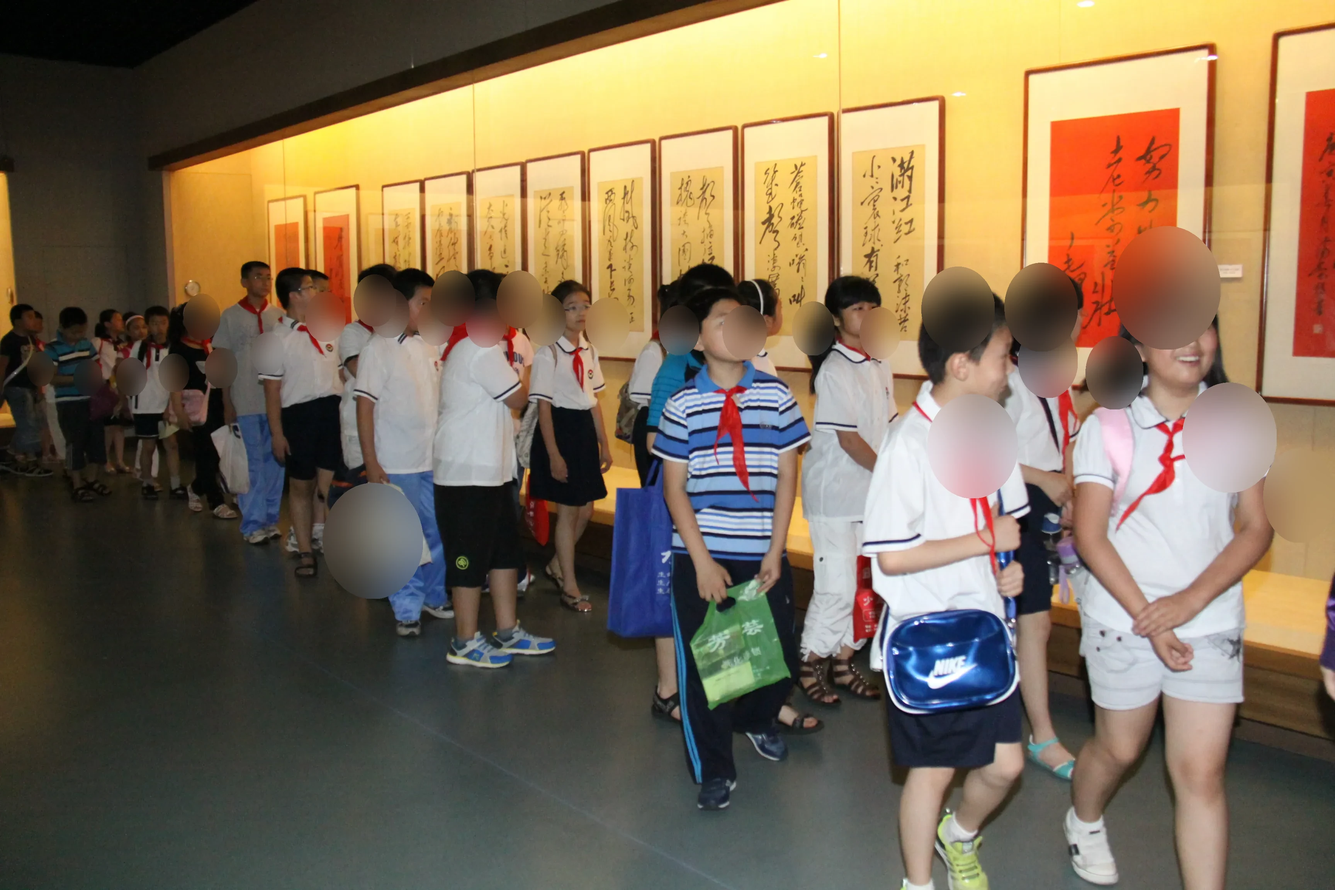
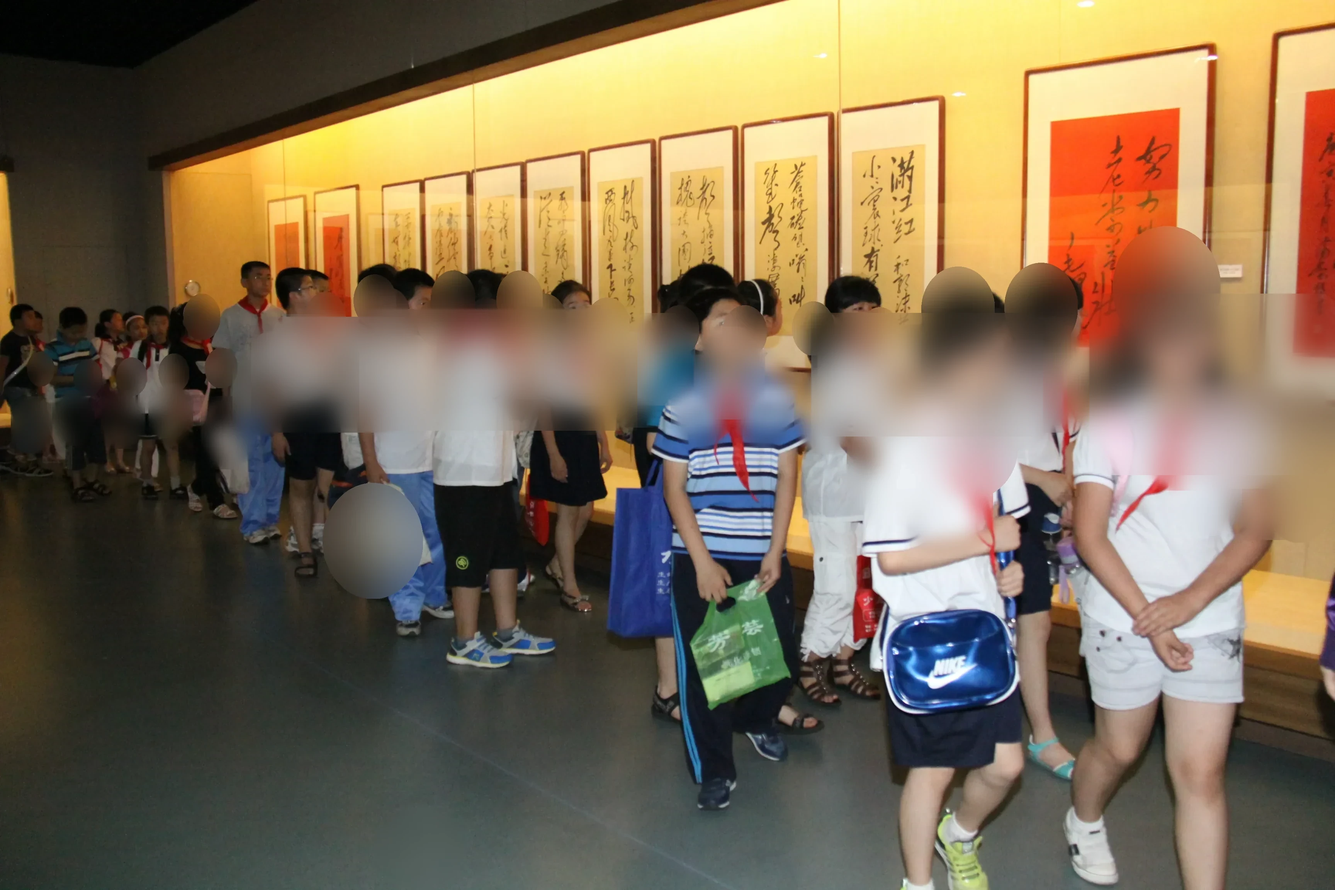
Update latest site frontend assets

Changed region(s): [[0.0938, 0.3125, 1.0, 0.5625], [0.6875, 0.5625, 0.75, 0.625], [0.9062, 0.5625, 0.9375, 0.5938]]

diff --git a/site/js/renderers.js b/site/js/renderers.js
@@ -187,6 +187,8 @@
   function contactMarkup(route) {
     const profile = store.siteData.profile;
     const copy = currentUI().home;
+    const phoneLabel = state.lang === "en" ? "Phone" : "\u8054\u7cfb\u7535\u8bdd";
+    const phone = profile.contact.phone ? String(profile.contact.phone).trim() : "";
     const compact = route?.page && route.page !== "home";
     return `
       <section class="${compact ? "section contact-section is-compact" : "section contact-section"}">
@@ -197,9 +199,8 @@
           </div>
           <div class="contact-meta">
             <div class="contact-row"><div class="meta">${escapeHtml(copy.city)}</div><div class="body">${escapeHtml(state.lang === "en" ? profile.contact.city_en : profile.contact.city_zh)}</div></div>
-            <div class="contact-row"><div class="meta">${escapeHtml(copy.email)}</div><div class="body">${escapeHtml(profile.contact.email)}</div></div>
+            ${phone ? `<div class="contact-row"><div class="meta">${escapeHtml(phoneLabel)}</div><div class="body">${escapeHtml(phone)}</div></div>` : ""}
             <div class="contact-row"><div class="meta">${escapeHtml(copy.response)}</div><div class="body">${escapeHtml(state.lang === "en" ? profile.contact.reply_en : profile.contact.reply_zh)}</div></div>
-            <div class="contact-row"><div class="meta">${escapeHtml(copy.instagram)}</div><div class="body">${escapeHtml(profile.contact.instagram)}</div></div>
           </div>
         </div>
       </section>
@@ -724,12 +725,6 @@
           <canvas class="hero-ink-canvas" data-ink-canvas aria-hidden="true"></canvas>
         </div>
       </section>
-      <section class="hero-summary">
-        <div class="section-kicker body">${escapeHtml(copy.kicker)}</div>
-        <div class="h1">${escapeHtml(heroTitle)}</div>
-        <div class="body">${escapeHtml(heroSubtitle)}</div>
-      </section>
-
       <section class="section">
         <div class="section-head">
           <div>
@@ -799,7 +794,7 @@
     return `
       <div class="media-lightbox" role="dialog" aria-modal="true" aria-label="${escapeHtml(label)}">
         <button class="media-lightbox-backdrop" type="button" data-lightbox-close aria-label="${escapeHtml(closeLabel)}"></button>
-        <div class="media-lightbox-inner">
+        <div class="media-lightbox-inner ${hasMultiple ? "has-nav" : ""}">
           <button class="media-lightbox-close" type="button" data-lightbox-close aria-label="${escapeHtml(closeLabel)}">×</button>
           ${hasMultiple ? `
             <button class="media-lightbox-nav is-prev" type="button" data-lightbox-nav="prev" data-media-index="${index}" data-media-gallery="${galleryValue}" aria-label="${escapeHtml(previousLabel)}" ${previousDisabled ? "disabled" : ""}>
@@ -886,18 +881,22 @@
     if (route.page === "about") {
       result.title = pageTitle(state.lang === "en" ? profile.about.headline_en : profile.about.headline_zh);
       result.description = plainSnippet(state.lang === "en" ? profile.about.bio_en : profile.about.bio_zh, 180);
+      const mainEntity = {
+        "@type": "Person",
+        name: profile.artist_name_en,
+        alternateName: profile.artist_name_zh,
+        image: (profile.about.portrait_images || []).map((path) => absoluteUrl(assetUrl(path)))
+      };
+      const phone = profile.contact.phone ? String(profile.contact.phone).trim() : "";
+      if (phone) {
+        mainEntity.telephone = phone;
+      }
       result.schema = {
         ...baseSchema,
         "@type": "AboutPage",
         name: result.title,
         description: result.description,
-        mainEntity: {
-          "@type": "Person",
-          name: profile.artist_name_en,
-          alternateName: profile.artist_name_zh,
-          email: profile.contact.email,
-          image: (profile.about.portrait_images || []).map((path) => absoluteUrl(assetUrl(path)))
-        }
+        mainEntity
       };
       return result;
     }

diff --git a/site/js/state.js b/site/js/state.js
@@ -15,7 +15,21 @@
    * 站点基础路径
    * @type {string}
    */
-  site.siteBase = document.documentElement.dataset.siteBase || "/";
+  function normalizeBase(path) {
+    const value = String(path || "").trim().replace(/\/+$/, "");
+    return value ? `/${value.replace(/^\/+/, "")}` : "/";
+  }
+
+  function runtimeSiteBase() {
+    const scriptPath = new URL(document.currentScript?.src || window.location.href, window.location.href).pathname;
+    const marker = "/js/state.js";
+    if (scriptPath.endsWith(marker)) {
+      return normalizeBase(scriptPath.slice(0, -marker.length));
+    }
+    return normalizeBase(document.documentElement.dataset.siteBase || "/");
+  }
+
+  site.siteBase = runtimeSiteBase();
   try {
     site.resourceVersion = new URL(document.currentScript?.src || "", window.location.href).searchParams.get("v") || "";
   } catch (error) {

diff --git a/site/js/components.js b/site/js/components.js
@@ -15,10 +15,17 @@
     return siteBase === "/" ? `/${path.replace(/^\.?\//, "")}` : `${siteBase}/${path.replace(/^\.?\//, "")}`;
   }
 
-  function dataUrl(fileName) {
+  function dataUrl(fileName, options = {}) {
     const base = siteBase === "/" ? "" : siteBase;
-    const version = resourceVersion ? `?v=${encodeURIComponent(resourceVersion)}` : "";
-    return `${base}/data/${fileName}${version}`;
+    const params = new URLSearchParams();
+    if (resourceVersion) {
+      params.set("v", resourceVersion);
+    }
+    if (options.fresh) {
+      params.set("_", options.fresh === true ? String(Date.now()) : String(options.fresh));
+    }
+    const query = params.toString();
+    return `${base}/data/${fileName}${query ? `?${query}` : ""}`;
   }
 
   function textOf(item, zhKey, enKey) {

diff --git a/site/js/data-loader.js b/site/js/data-loader.js
@@ -1,10 +1,16 @@
 (function () {
   const site = window.ZMTSite;
   const { dataUrl, store } = site;
+  const dataRequestNonce = `${Date.now()}-${Math.random().toString(36).slice(2)}`;
 
   async function fetchJson(fileName) {
     try {
-      const response = await fetch(dataUrl(fileName));
+      const response = await fetch(dataUrl(fileName, { fresh: dataRequestNonce }), {
+        cache: "no-store",
+        headers: {
+          "Cache-Control": "no-cache"
+        }
+      });
       if (!response.ok) {
         throw new Error(`Failed to load ${fileName}: ${response.status}`);
       }

diff --git a/site/css/style.css b/site/css/style.css
@@ -1207,6 +1207,11 @@ p,
   width: 100%;
   height: 100%;
   display: grid;
+  place-items: center;
+}
+
+.media-lightbox-inner.has-nav {
+  display: grid;
   grid-template-columns: 52px minmax(0, 1fr) 52px;
   align-items: center;
   gap: 18px;
@@ -1926,6 +1931,10 @@ p,
   }
 
   .media-lightbox-inner {
+    gap: 0;
+  }
+
+  .media-lightbox-inner.has-nav {
     grid-template-columns: 44px minmax(0, 1fr) 44px;
     gap: 8px;
   }

diff --git a/site/js/router.js b/site/js/router.js
@@ -4,7 +4,9 @@
 
   function siteMount() {
     const raw = String(rootNode.dataset.siteMount !== undefined ? rootNode.dataset.siteMount : "").trim().replace(/^\/+|\/+$/g, "");
-    return raw ? `/${raw}` : "";
+    if (raw) return `/${raw}`;
+    const base = String(site.siteBase || "").trim().replace(/^\/+|\/+$/g, "");
+    return base ? `/${base}` : "";
   }
 
   function normalizeRoute(route) {

diff --git a/scripts/generate_static_route_shells.py b/scripts/generate_static_route_shells.py
@@ -77,6 +77,12 @@ def page_site_base() -> str:
     return "/"
 
 
+def page_asset_prefix(route: str, lang: str) -> str:
+    relative = route_relative_path(route, lang).split("?", 1)[0].strip("/")
+    depth = len(Path(relative).parts) if relative else 0
+    return "." if depth == 0 else "/".join([".."] * depth)
+
+
 def absolute_asset_url(path: str) -> str:
     return f"{SITE_URL.rstrip('/')}{path}"
 
@@ -373,18 +379,21 @@ def metadata_for_route(route: str, lang: str, profile: dict, works: list[dict], 
         label = profile["about"]["headline_en"] if lang == "en" else profile["about"]["headline_zh"]
         result["title"] = page_title(label, site_name)
         result["description"] = plain_snippet(profile["about"]["bio_en"] if lang == "en" else profile["about"]["bio_zh"], 180) or default_description
+        main_entity = {
+            "@type": "Person",
+            "name": profile["artist_name_en"],
+            "alternateName": profile["artist_name_zh"],
+            "image": [absolute_asset_url(path) for path in profile["about"]["portrait_images"]],
+        }
+        phone = profile["contact"].get("phone", "").strip()
+        if phone:
+            main_entity["telephone"] = phone
         result["schema"] = {
             **base_schema,
             "@type": "AboutPage",
             "name": result["title"],
             "description": result["description"],
-            "mainEntity": {
-                "@type": "Person",
-                "name": profile["artist_name_en"],
-                "alternateName": profile["artist_name_zh"],
-                "email": profile["contact"]["email"],
-                "image": [absolute_asset_url(path) for path in profile["about"]["portrait_images"]],
-            },
+            "mainEntity": main_entity,
         }
         return result
 
@@ -471,7 +480,7 @@ def html_shell(route: str, lang: str, metadata: dict) -> str:
     def href(value: str) -> str:
         return html.escape(value, quote=True)
 
-    site_asset_prefix = "" if site_base == "/" else site_base.rstrip("/")
+    site_asset_prefix = page_asset_prefix(route, lang)
     schema_json = json.dumps(metadata["schema"], ensure_ascii=False).replace("</", "<\\/")
     return f"""<!DOCTYPE html>
 <html lang="{ 'en' if lang == 'en' else 'zh-CN' }" data-site-base="{href(site_base)}" data-site-url="{href(SITE_URL)}" data-site-mount="{SITE_MOUNT}" data-route="{href(route)}" data-route-lang="{lang}">
@@ -524,7 +533,7 @@ def html_shell_v2(route: str, lang: str, metadata: dict, works: list[dict], exhi
     def href(value: str) -> str:
         return html.escape(value, quote=True)
 
-    site_asset_prefix = "" if site_base == "/" else site_base.rstrip("/")
+    site_asset_prefix = page_asset_prefix(route, lang)
     schema_json = json.dumps(metadata["schema"], ensure_ascii=False).replace("</", "<\\/")
     app_class, app_markup = static_detail_shell(route, lang, works, exhibitions, news)
     return f"""<!DOCTYPE html>
